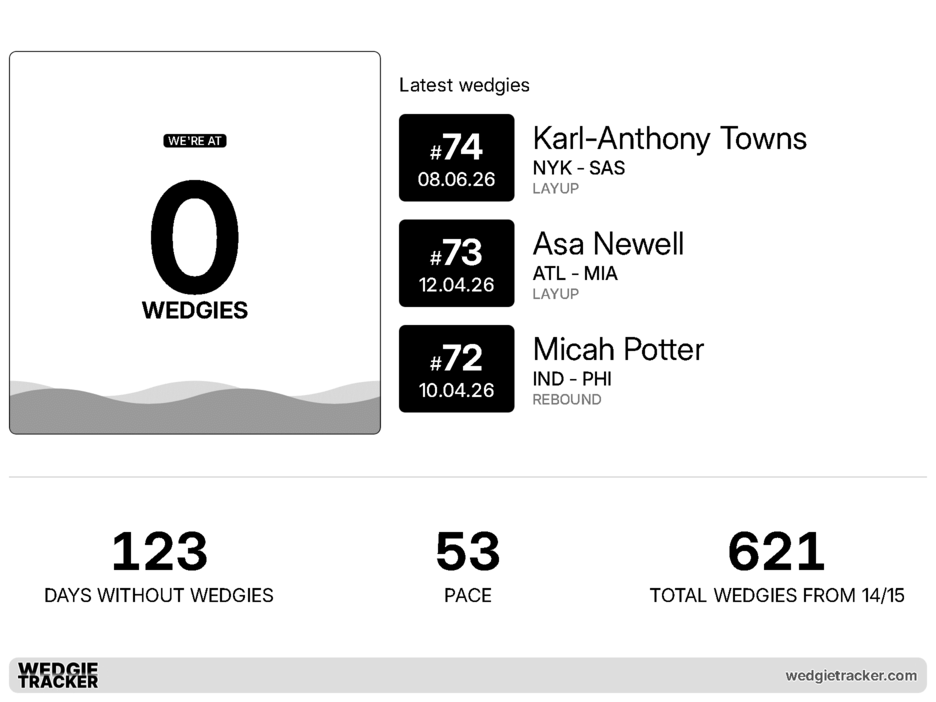
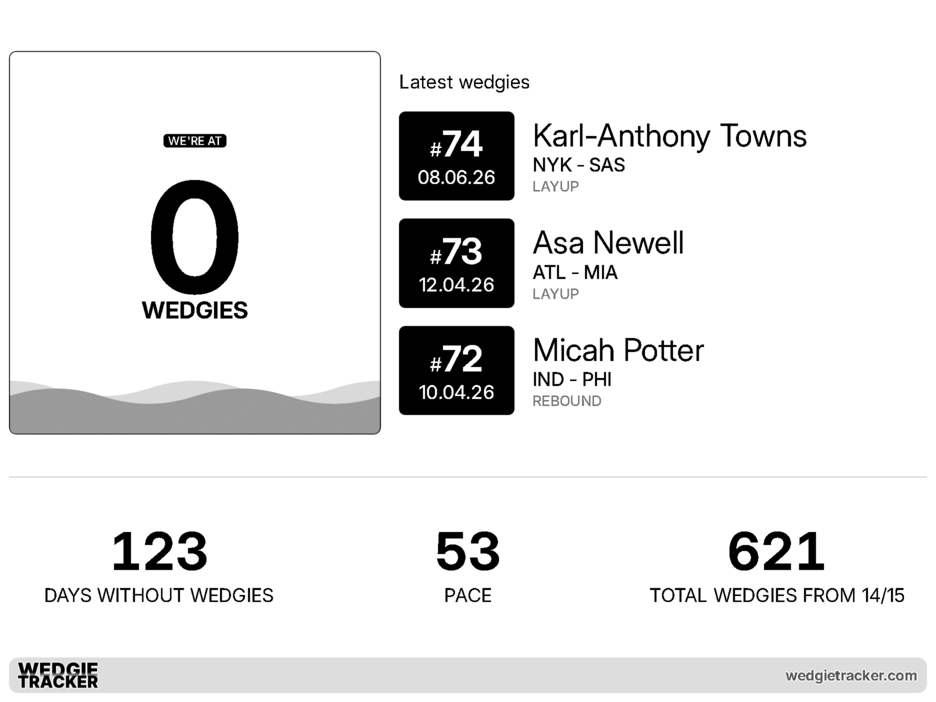
Size the TRMNL layouts for the 800x480 TRMNL OG (#156)
The layouts were tuned only for the TRMNL X, so on the OG the wedgie tiles merged, labels were clipped and the half vertical tank hid its number. Base classes now fit the OG and lg: classes keep the TRMNL X sizes unchanged. Adds OG previews.

diff --git a/apps/trmnl/README.md b/apps/trmnl/README.md
@@ -12,7 +12,10 @@ days without wedgies and the all-time total. It mirrors the website home page.
   `apps/web/public/github-logo-light.svg` as `wt_logo` for the title bar.
 - `src/transform.js`: flattens the five API responses into the variables the markup uses.
 - `src/settings.yml`: polling URLs, refresh interval and the recipe's author bio.
-- `previews/`: renders at TRMNL X (`v2`) resolution.
+- `previews/`: renders at TRMNL X (`v2`) resolution; `previews/og/` holds TRMNL OG (800x480) renders.
+
+The markup is sized for the OG by default, with `lg:` classes for the larger TRMNL X. Preview
+both (`og_plus` and `v2`) after any change.
 
 ## Data
 
